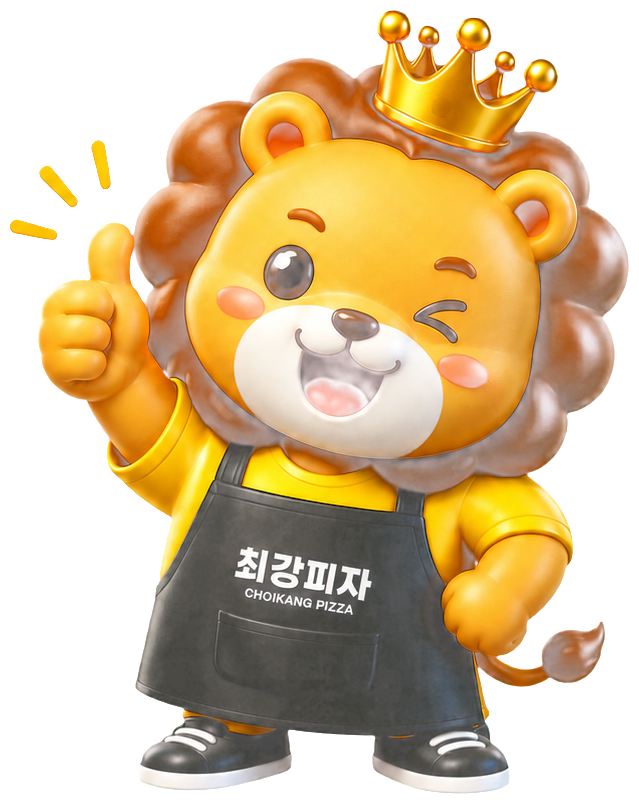
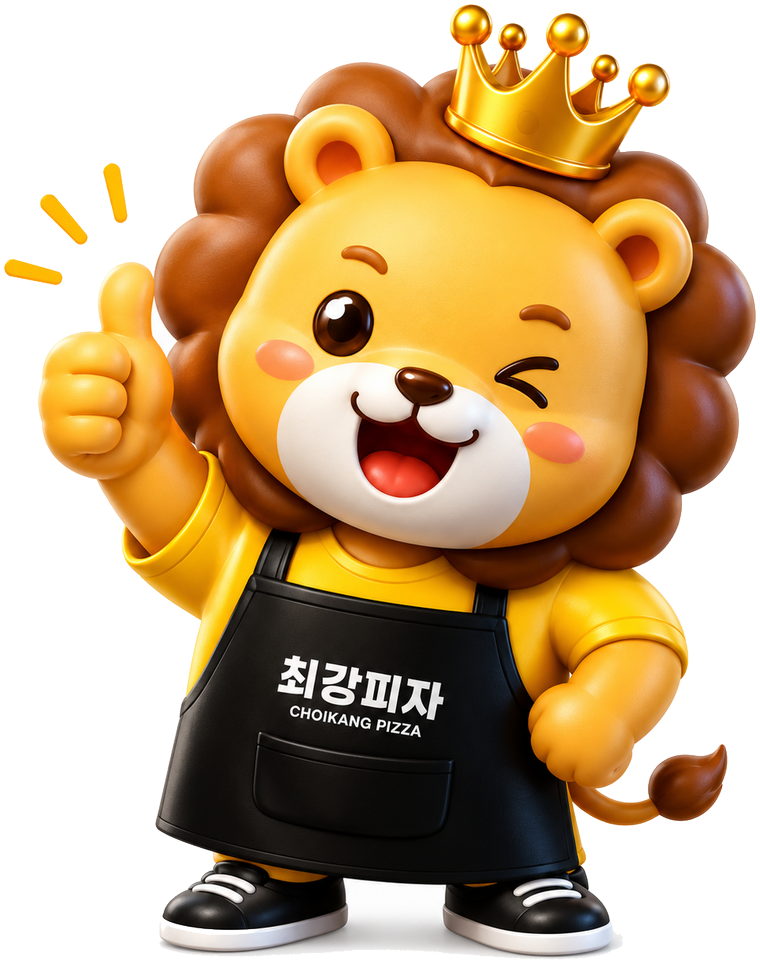
Label every section, fix the mascot cutout, and fit the dense two
- Every section now carries its label, not just the two that had one:
  PROFIT, SYSTEM, REAL KITCHEN, REVIEW and CONTACT join FRANCHISE and
  PHILOSOPHY. The pill gained a contrast tone for the saturated grounds,
  where navy-on-blue would have disappeared.

- The mascot was cut out with a magenta chroma key, and magenta is red plus
  blue — which the brown mane and black apron both carry. The key ate into
  the figure and left it part-transparent, so it composited as if under a
  white film. Replaced with a flood fill that travels inward from the frame
  edge: it can never reach an enclosed white, so the muzzle, the apron
  lettering and the shoe soles survive and the colour is now pixel-identical
  to the source art.

- 집중운영's cards were butted edge to edge at 373px wide. The comp sets them
  335px with a 45px gutter and the operator badge centred in that gutter,
  overlapping both neighbours. Measured off the sheet and matched, including
  the disc, which is a warmer cream (#FBEBC6) than the card, not the same
  tone. New --spacing-gutter token; a gap between sibling cards is its own
  rhythm step.

- 가맹 혜택's table stopped 150px short of the band beneath it, leaving the
  section with two right edges. Both run to the container now.

- 철학's blue band takes half the section.

- Height: at 1920, 1536 and 1440 every section fits one screen exactly. The
  two data-dense ones were 16-21% over at the comp's own 1672 and at 1366;
[…]

diff --git a/src/components/home/sections/profit-structure-section.tsx b/src/components/home/sections/profit-structure-section.tsx
@@ -10,6 +10,7 @@ import {
   WheatIcon,
 } from "@/components/home/icons";
 import { ProfitDonut } from "@/components/home/sections/profit-donut";
+import { EyebrowPill } from "@/components/home/ui/eyebrow-pill";
 import { profitStructure as data } from "@/lib/home-content";
 
 /** Geometry from 44-수정후-.png. Orange is this section's accent, not gold. */
@@ -32,11 +33,11 @@ function SummaryTable() {
   return (
     <div className="relative w-full pt-6 lg:pt-[1.4vw]">
       {/* The comp straddles this pill across the card's top edge. */}
-      <div className="absolute left-1/2 top-0 z-10 -translate-x-1/2 whitespace-nowrap rounded-full bg-navy-900 px-8 py-2.5 text-[1.05rem] font-black tracking-[-0.03em] text-white lg:px-card lg:py-[min(0.7vw,1.25vh)] lg:text-[clamp(1rem,1.35vw,1.42rem)]">
+      <div className="absolute left-1/2 top-0 z-10 -translate-x-1/2 whitespace-nowrap rounded-full bg-navy-900 px-8 py-2.5 text-[1.05rem] font-black tracking-[-0.03em] text-white lg:px-card lg:py-[min(0.5vw,0.88vh)] lg:text-[clamp(0.95rem,1.2vw,1.28rem)]">
         {data.table.title}
       </div>
 
-      <div className="rounded-card bg-white px-5 pb-5 pt-8 shadow-card lg:px-card lg:pb-[1.35vw] lg:pt-[2vw]">
+      <div className="rounded-card bg-white px-5 pb-5 pt-8 shadow-card lg:px-card lg:pb-[0.9vw] lg:pt-[1.5vw]">
         <div className="flex items-center justify-between border-b border-hairline pb-2.5 text-[0.85rem] font-bold text-navy-900/55 lg:text-[clamp(0.8rem,0.98vw,1.02rem)]">
           <span className="pl-1">{data.table.columns[0]}</span>
           <span>{data.table.columns[1]}</span>
@@ -47,10 +48,10 @@ function SummaryTable() {
           return (
             <div
               key={row.label}
-              className="flex items-center justify-between gap-4 border-b border-dotted border-hairline py-3 lg:py-[min(0.52vw,0.95vh)]"
+              className="flex items-center justify-between gap-4 border-b border-dotted border-hairline py-3 lg:py-[min(0.3vw,0.54vh)]"
             >
               <span className="flex min-w-0 items-center gap-3 lg:gap-[1vw]">
-                <span className="flex h-9 w-9 shrink-0 items-center justify-center rounded-full bg-[#EFF1F6] text-navy-900 lg:h-[min(2.4vw,4.3vh)] lg:w-[min(2.4vw,4.3vh)]">
+                <span className="flex h-9 w-9 shrink-0 items-center justify-center rounded-full bg-[#EFF1F6] text-navy-900 lg:h-[min(1.95vw,3.45vh)] lg:w-[min(1.95vw,3.45vh)]">
                   <Icon className="h-5 w-5 lg:h-[1.4vw] lg:w-[1.4vw]" />
                 </span>
                 <span className="min-w-0 text-[0.98rem] font-black tracking-[-0.03em] text-navy-900 lg:text-[clamp(0.9rem,1.14vw,1.2rem)]">
@@ -103,15 +104,15 @@ export function ProfitStructureSection() {
       className="app-screen-snap-target section-screen section-lead relative bg-cream-ground"
     >
       <div className="mx-auto w-full max-w-[93.25rem] px-5 md:px-8 lg:w-[min(93.25rem,100%-5.4rem)] lg:max-w-none lg:px-0">
-        {/* Gold rules flanking the top of the section, as in the comp. */}
-        <div aria-hidden="true" className="hidden items-center gap-6 lg:flex">
-          <span className="h-0.5 w-[22%] bg-gold-600" />
-          <span className="flex-1" />
-          <span className="h-0.5 w-[22%] bg-gold-600" />
+        {/* The comp's gold rules run either side of the section label. */}
+        <div className="flex items-center gap-6">
+          <span aria-hidden="true" className="hidden h-0.5 flex-1 bg-gold-600 lg:block" />
+          <EyebrowPill label={data.pill} />
+          <span aria-hidden="true" className="hidden h-0.5 flex-1 bg-gold-600 lg:block" />
         </div>
 
         <div className="motion-reveal mt-block text-center">
-          <h2 className="text-[1.85rem] font-black leading-[1.2] tracking-[-0.05em] text-navy-900 lg:text-[clamp(1.9rem,min(3.75vw,6.7vh),3.95rem)]">
+          <h2 className="text-[1.85rem] font-black leading-[1.2] tracking-[-0.05em] text-navy-900 lg:text-[clamp(1.8rem,min(3.2vw,5.7vh),3.4rem)]">
             {data.headlineLead}
             <span className="text-orange-500">{data.headlineAccent}</span>
             {data.headlineTail}
@@ -126,12 +127,12 @@ export function ProfitStructureSection() {
         <div className="mt-block grid grid-cols-1 items-center gap-10 lg:grid-cols-[minmax(0,1fr)_minmax(0,1.02fr)] lg:gap-[2.4vw]">
           <div className="flex flex-col items-center gap-6 lg:flex-row lg:gap-[1.6vw]">
             <div className="shrink-0 text-center lg:w-[9.5vw]">
-              <ChartIcon className="mx-auto h-12 w-12 text-orange-500 lg:h-[min(2.8vw,5vh)] lg:w-[min(2.8vw,5vh)]" />
+              <ChartIcon className="mx-auto h-12 w-12 text-orange-500 lg:h-[min(2.3vw,4.1vh)] lg:w-[min(2.3vw,4.1vh)]" />
               <span aria-hidden="true" className="mx-auto mt-3 block h-0.5 w-16 bg-gold-600 lg:w-full" />
               <p className="mt-3 text-[0.95rem] font-black tracking-[-0.03em] text-navy-900 lg:text-[clamp(0.88rem,1.14vw,1.2rem)]">
                 {data.headlineStat.label}
               </p>
-              <p className="mt-1 whitespace-nowrap text-[2rem] font-black leading-none tracking-[-0.05em] text-orange-500 lg:text-[clamp(1.8rem,min(2.6vw,4.6vh),2.9rem)]">
+              <p className="mt-1 whitespace-nowrap text-[2rem] font-black leading-none tracking-[-0.05em] text-orange-500 lg:text-[clamp(1.6rem,min(2.2vw,3.9vh),2.5rem)]">
                 {data.headlineStat.value}
                 <span className="text-[0.55em]">%</span>
               </p>
@@ -141,7 +142,7 @@ export function ProfitStructureSection() {
               </p>
             </div>
 
-            <div className="w-full max-w-[26rem] lg:max-w-[min(21.5vw,37vh)]">
+            <div className="w-full max-w-[26rem] lg:max-w-[min(18.5vw,32vh)]">
               <ProfitDonut />
             </div>
           </div>
@@ -163,7 +164,7 @@ export function ProfitStructureSection() {
                   index > 0 ? "sm:border-l sm:border-hairline sm:pl-4 lg:pl-[2vw]" : ""
                 }`}
               >
-                <span className="flex h-14 w-14 shrink-0 items-center justify-center rounded-full bg-navy-900 text-yellow-500 lg:h-[min(3.4vw,6vh)] lg:w-[min(3.4vw,6vh)]">
+                <span className="flex h-14 w-14 shrink-0 items-center justify-center rounded-full bg-navy-900 text-yellow-500 lg:h-[min(2.7vw,4.8vh)] lg:w-[min(2.7vw,4.8vh)]">
                   <Icon className="h-8 w-8 lg:h-[2.4vw] lg:w-[2.4vw]" />
                 </span>
                 <span className="min-w-0">

diff --git a/src/components/home/sections/franchise-benefit-section.tsx b/src/components/home/sections/franchise-benefit-section.tsx
@@ -60,12 +60,12 @@ function RedUnderline() {
 
 function BenefitTable() {
   return (
-    <div className="mt-block overflow-hidden rounded-card border border-hairline bg-white shadow-card lg:mr-[9.2vw]">
+    <div className="mt-block overflow-hidden rounded-card border border-hairline bg-white shadow-card">
       <div className="grid grid-cols-[1fr] bg-navy-900 text-white lg:grid-cols-[22%_45%_33%]">
         {data.columns.map((column, index) => (
           <div
             key={column}
-            className={`hidden py-3.5 text-center text-[1rem] font-black tracking-[-0.02em] lg:block lg:py-[min(0.7vw,1.25vh)] lg:text-[clamp(0.95rem,1.25vw,1.32rem)] ${
+            className={`hidden py-3.5 text-center text-[1rem] font-black tracking-[-0.02em] lg:block lg:py-[min(0.52vw,0.92vh)] lg:text-[clamp(0.9rem,1.14vw,1.2rem)] ${
               index === 0 ? "lg:block" : ""
             }`}
           >
@@ -80,12 +80,12 @@ function BenefitTable() {
         return (
           <div
             key={row.label}
-            className={`grid grid-cols-1 items-center gap-y-2 px-5 py-5 lg:grid-cols-[22%_45%_33%] lg:gap-0 lg:px-0 lg:py-[min(0.85vw,1.5vh)] ${
+            className={`grid grid-cols-1 items-center gap-y-2 px-5 py-5 lg:grid-cols-[22%_45%_33%] lg:gap-0 lg:px-0 lg:py-[min(0.58vw,1.03vh)] ${
               index > 0 ? "border-t border-hairline" : ""
             }`}
           >
             <div className="flex items-center gap-3 lg:justify-start lg:pl-[2.2vw]">
-              <span className="flex h-9 w-9 shrink-0 items-center justify-center rounded-full bg-navy-900 text-white lg:h-[min(2.6vw,4.6vh)] lg:w-[min(2.6vw,4.6vh)]">
+              <span className="flex h-9 w-9 shrink-0 items-center justify-center rounded-full bg-navy-900 text-white lg:h-[min(2.15vw,3.8vh)] lg:w-[min(2.15vw,3.8vh)]">
                 <Icon className="h-5 w-5 lg:h-[1.5vw] lg:w-[1.5vw]" />
               </span>
               <span className="text-[1.05rem] font-black tracking-[-0.03em] text-navy-900 lg:text-[clamp(1rem,1.42vw,1.5rem)]">
@@ -137,7 +137,7 @@ export function FranchiseBenefitSection() {
             {/* Flex, not inline-block: shrink-to-fit sizes these against the
                 available inline width, which collapsed the marked phrase to a
                 single-character column. Flex items size to their content. */}
-            <span className="flex items-baseline justify-center gap-x-[0.22em] whitespace-nowrap text-[2.2rem] lg:text-[clamp(2.4rem,min(5.68vw,10.1vh),5.95rem)]">
+            <span className="flex items-baseline justify-center gap-x-[0.22em] whitespace-nowrap text-[2.2rem] lg:text-[clamp(2.2rem,min(4.9vw,8.7vh),5.2rem)]">
               <span className="relative">
                 {data.headlineLead}
                 <RedUnderline />
@@ -148,7 +148,7 @@ export function FranchiseBenefitSection() {
                 <SparkIcon className="absolute -right-[0.42em] -top-[0.22em] h-[0.3em] w-[0.3em] text-yellow-500" />
               </span>
             </span>
-            <span className="mt-1 block text-[1.75rem] lg:mt-[0.3vw] lg:text-[clamp(1.8rem,min(4vw,7.1vh),4.3rem)]">{data.headlineSecond}</span>
+            <span className="mt-1 block text-[1.75rem] lg:mt-[0.3vw] lg:text-[clamp(1.7rem,min(3.5vw,6.2vh),3.8rem)]">{data.headlineSecond}</span>
           </h2>
           <p className="mx-auto mt-group max-w-[46rem] text-[0.95rem] text-navy-900/65 lg:max-w-none lg:text-[clamp(0.88rem,1.08vw,1.14rem)]">
             {data.subhead}
@@ -169,7 +169,7 @@ export function FranchiseBenefitSection() {
             unoptimized
             className="pointer-events-none -mb-2 hidden h-auto w-[min(6.8vw,12vh)] shrink-0 select-none lg:block"
           />
-          <div className="w-full rounded-band bg-navy-900 px-6 py-6 text-center text-white lg:ml-[1.2vw] lg:py-card lg:pl-[2vw] lg:pr-[2.4vw] lg:text-left">
+          <div className="w-full rounded-band bg-navy-900 px-6 py-6 text-center text-white lg:ml-[1.2vw] lg:py-[min(1.05vw,1.85vh)] lg:pl-[2vw] lg:pr-[2.4vw] lg:text-left">
             <div className="flex items-center justify-center gap-3 lg:justify-start lg:gap-[1.4vw]">
               <span className="hidden h-[min(3.4vw,6vh)] w-[min(3.4vw,6vh)] shrink-0 items-center justify-center rounded-full bg-white lg:flex">
                 <Image
@@ -189,7 +189,7 @@ export function FranchiseBenefitSection() {
                   <SparkIcon className="h-4 w-4 shrink-0" />
                   <span aria-hidden="true" className="hidden h-px flex-1 bg-gold-400/45 lg:block" />
                 </p>
-                <p className="mt-2 text-[1.35rem] font-black leading-tight tracking-[-0.04em] lg:mt-[0.4vw] lg:text-[clamp(1.5rem,min(2.8vw,5vh),2.95rem)]">
+                <p className="mt-2 text-[1.35rem] font-black leading-tight tracking-[-0.04em] lg:mt-[0.4vw] lg:text-[clamp(1.4rem,min(2.4vw,4.25vh),2.5rem)]">
                   {data.banner.parts.map((part, index) => (
                     <span
                       key={index}

diff --git a/src/components/home/sections/focus-system-section.tsx b/src/components/home/sections/focus-system-section.tsx
@@ -1,5 +1,6 @@
 import Image from "next/image";
 import { GrowthArt, TargetArt } from "@/components/home/icons";
+import { EyebrowPill } from "@/components/home/ui/eyebrow-pill";
 import { focusSystem as data } from "@/lib/home-content";
 
 /** Geometry from 77-중간 수정후.png: yellow ground, four cream cards, navy operators. */
@@ -34,7 +35,7 @@ function Operator({ symbol }: { symbol: string }) {
   return (
     <span
       aria-hidden="true"
-      className="z-10 flex h-11 w-11 shrink-0 items-center justify-center rounded-full bg-navy-900 text-[1.5rem] font-black leading-none text-yellow-500 shadow-raise lg:h-[3.6vw] lg:w-[3.6vw] lg:text-[clamp(1.4rem,2vw,2.1rem)]"
+      className="z-10 flex h-11 w-11 shrink-0 items-center justify-center rounded-full bg-navy-900 text-[1.5rem] font-black leading-none text-yellow-500 shadow-raise lg:h-[min(4.13vw,7.3vh)] lg:w-[min(4.13vw,7.3vh)] lg:text-[clamp(1.4rem,2vw,2.1rem)]"
     >
       {symbol}
     </span>
@@ -54,7 +55,11 @@ export function FocusSystemSection() {
       />
 
       <div className="relative mx-auto w-full max-w-[93.25rem] px-5 md:px-8 lg:w-[min(93.25rem,100%-5.4rem)] lg:max-w-none lg:px-0">
-        <div className="motion-reveal text-center">
+        <div className="flex justify-center">
+          <EyebrowPill label={data.pill} />
+        </div>
+
+        <div className="motion-reveal mt-block text-center">
           <h2 className="text-[1.95rem] font-black leading-[1.2] tracking-[-0.05em] text-navy-900 lg:text-[clamp(2.4rem,4.6vw,4.85rem)]">
             {data.headlineLead}
             <span className="text-red-500">{data.headlineAccent}</span>
@@ -75,7 +80,7 @@ export function FocusSystemSection() {
                 <span aria-hidden="true" className="mt-group block h-0.5 w-14 bg-gold-600" />
 
                 {/* Every card gets the comp's cream disc, vector art included. */}
-                <span className="mt-block flex aspect-square w-[10.5rem] items-center justify-center overflow-hidden rounded-full bg-[#F3EAD4] lg:w-[min(13.4vw,23vh)]">
+                <span className="mt-block flex aspect-square w-[10.5rem] items-center justify-center overflow-hidden rounded-full bg-disc lg:w-[min(13.4vw,23vh)]">
                   <CardArt art={card.art} />
                 </span>
 
@@ -92,7 +97,7 @@ export function FocusSystemSection() {
               </article>
 
               {card.connector ? (
-                <span className="my-3 flex justify-center lg:my-0 lg:-mx-[1.8vw] lg:mt-[min(12.4vw,21vh)] lg:self-start">
+                <span className="my-3 flex justify-center lg:my-0 lg:mt-[min(12.4vw,21vh)] lg:w-gutter lg:shrink-0 lg:self-start">
                   <Operator symbol={card.connector} />
                 </span>
               ) : null}

diff --git a/src/lib/home-content.ts b/src/lib/home-content.ts
@@ -157,6 +157,7 @@ export const philosophy = {
 
 /* ── S4 · 수익 구조 (44-수정후-.png) ─────────────────────────── */
 export const profitStructure = {
+  pill: "PROFIT",
   headlineLead: "매출보다 중요한 건, 실제로 남는 ",
   headlineAccent: "수익",
   headlineTail: "입니다.",
@@ -222,6 +223,7 @@ export const profitStructure = {
 
 /* ── S5 · 집중운영 시스템 (77-중간 수정후.png) ───────────────── */
 export const focusSystem = {
+  pill: "SYSTEM",
   headlineLead: "최강피자 ",
   headlineAccent: "집중운영",
   headlineTail: " 시스템",
@@ -271,6 +273,7 @@ export const focusSystem = {
 
 /* ── S6 · 진짜 주방 (99- 하단 수정 부분.png) ─────────────────── */
 export const realKitchen = {
+  pill: "REAL KITCHEN",
   headline: [
     { text: "최강피자의", tone: "white" },
     { text: "진짜 주방을", tone: "gold" },
@@ -321,6 +324,7 @@ export const realKitchen = {
 
 /* ── S7 · 리뷰 증명 (88 — 구조 유지, 남색만 밝은 블루로) ────── */
 export const reviewProof = {
+  pill: "REVIEW",
   year: "2026년",
   lead: "고객님의 성원에 오픈 3개월",
   headlineLead: "매출",
@@ -336,6 +340,7 @@ export const reviewProof = {
 
 /* ── S8 · 가맹 문의 + 푸터 (10 — 그대로) ─────────────────────── */
 export const contact = {
+  pill: "CONTACT",
   headlineLead: "최강피자 ",
   headlineAccent: "가맹 문의",
   description: "브랜드 상담부터 운영 안내까지 빠르게 연결해드립니다.",

diff --git a/src/app/globals.css b/src/app/globals.css
@@ -37,6 +37,7 @@
   --color-cream-ground: #faf6f2;
   --color-rule: #ebe9e8;
   --color-mist: #eef1f7;
+  --color-disc: #fbebc6;
 
   /* ---------------------------------------------------------------
      Vertical rhythm. Every comp sheet is one 1672×941 screen, so the
@@ -47,7 +48,7 @@
      Use these — never a fresh `mt-[1.7vw]`.
      --------------------------------------------------------------- */
   --spacing-section: clamp(1.15rem, min(2.05vw, 3.6vh), 2.4rem);
-  --spacing-block: clamp(0.85rem, min(1.55vw, 2.75vh), 1.7rem);
+  --spacing-block: clamp(0.7rem, min(1.25vw, 2.2vh), 1.4rem);
   --spacing-group: clamp(0.65rem, min(1.25vw, 2.2vh), 1.35rem);
   --spacing-tight: clamp(0.4rem, min(0.7vw, 1.25vh), 0.75rem);
 
@@ -55,7 +56,10 @@
      fixed header, then adds one breathing gap. Sections anchor to this
      instead of centring, so a heading lands at the same height on every
      screen as you page down. */
-  --spacing-lead: calc(var(--header-offset) + clamp(0.5rem, min(1.5vw, 2.6vh), 1.6rem));
+  --spacing-lead: calc(var(--header-offset) + clamp(0.25rem, min(0.8vw, 1.4vh), 0.95rem));
+
+  /* Gutter between sibling cards in a row — 45px on the comps' 1672 frame. */
+  --spacing-gutter: clamp(0.75rem, min(2.7vw, 4.8vh), 3rem);
 
   /* Interior padding for cards, panels and pills. */
   --spacing-card: clamp(1rem, min(1.55vw, 2.75vh), 1.8rem);

diff --git a/src/components/home/sections/review-proof-section.tsx b/src/components/home/sections/review-proof-section.tsx
@@ -1,5 +1,6 @@
 import Image from "next/image";
 import type { CSSProperties } from "react";
+import { EyebrowPill } from "@/components/home/ui/eyebrow-pill";
 import { reviewProof as data } from "@/lib/home-content";
 
 /**
@@ -76,7 +77,8 @@ export function ReviewProofSection() {
       {/* The panel sits over the moving rows, so it needs its own ground. */}
       <div className="pointer-events-none absolute inset-0 flex items-center justify-center px-5">
         <div className="motion-reveal pointer-events-auto w-full max-w-[28rem] rounded-card bg-blue-band px-8 py-block text-center text-white shadow-lift lg:max-w-[31vw] lg:px-card">
-          <p className="text-[0.85rem] font-black tracking-[0.14em] text-yellow-500 lg:text-[clamp(0.8rem,1vw,1.05rem)]">
+          <EyebrowPill label={data.pill} tone="contrast" />
+          <p className="mt-group text-[0.85rem] font-black tracking-[0.14em] text-yellow-500 lg:text-[clamp(0.8rem,1vw,1.05rem)]">
             {data.year}
           </p>
           <p className="mt-group text-[1.1rem] font-black tracking-[-0.03em] lg:text-[clamp(1.05rem,1.42vw,1.5rem)]">

diff --git a/src/components/home/sections/real-kitchen-section.tsx b/src/components/home/sections/real-kitchen-section.tsx
@@ -2,6 +2,7 @@
 
 import { useRef, useState } from "react";
 import { DiamondIcon, PlayIcon, ShieldIcon, SparkIcon } from "@/components/home/icons";
+import { EyebrowPill } from "@/components/home/ui/eyebrow-pill";
 import { KakaoBadge } from "@/components/home/ui/kakao-badge";
 import { realKitchen as data } from "@/lib/home-content";
 
@@ -100,7 +101,8 @@ export function RealKitchenSection() {
       <div className="mx-auto w-full max-w-[93.25rem] px-5 md:px-8 lg:w-[min(93.25rem,100%-5.4rem)] lg:max-w-none lg:px-0">
         <div className="grid grid-cols-1 items-center gap-10 lg:grid-cols-[minmax(0,0.85fr)_minmax(0,1.15fr)] lg:gap-[3vw]">
           <div className="motion-reveal">
-            <h2 className="text-[2.4rem] font-black leading-[1.14] tracking-[-0.05em] lg:text-[clamp(2.8rem,5.5vw,5.8rem)]">
+            <EyebrowPill label={data.pill} tone="contrast" />
+            <h2 className="mt-block text-[2.4rem] font-black leading-[1.14] tracking-[-0.05em] lg:text-[clamp(2.8rem,5.5vw,5.8rem)]">
               {data.headline.map((line) => (
                 <span
                   key={line.text}

diff --git a/src/components/home/ui/eyebrow-pill.tsx b/src/components/home/ui/eyebrow-pill.tsx
@@ -2,8 +2,9 @@ import { SparkIcon } from "@/components/home/icons";
 
 type EyebrowPillProps = {
   label: string;
-  /** `solid` = filled navy pill (22); `outline` = blue pill with gold rule (33). */
-  tone?: "solid" | "outline";
+  /** `solid` = filled navy (22); `outline` = ringed (33); `contrast` = for
+   *  placement on a saturated ground, where navy would disappear. */
+  tone?: "solid" | "outline" | "contrast";
   sparks?: boolean;
 };
 
@@ -17,7 +18,9 @@ export function EyebrowPill({ label, tone = "solid", sparks = false }: EyebrowPi
       className={`inline-flex items-center gap-2 rounded-full px-6 py-2 text-[0.86rem] font-black tracking-[0.14em] lg:text-[clamp(0.8rem,1.02vw,1.05rem)] ${
         tone === "solid"
           ? "bg-navy-900 text-yellow-500"
-          : "border-2 border-gold-600 bg-blue-band text-yellow-500"
+          : tone === "contrast"
+            ? "bg-white/15 text-yellow-500 ring-1 ring-white/30"
+            : "border-2 border-gold-600 bg-blue-band text-yellow-500"
       }`}
     >
       {sparks ? <SparkIcon className="h-3.5 w-3.5" /> : null}

diff --git a/src/components/home/sections/contact-footer-section.tsx b/src/components/home/sections/contact-footer-section.tsx
@@ -1,4 +1,5 @@
 import Image from "next/image";
+import { EyebrowPill } from "@/components/home/ui/eyebrow-pill";
 import { contact as data } from "@/lib/home-content";
 
 /** 10 ships unchanged; only the tokens are swapped for the new palette. */
@@ -50,7 +51,8 @@ export function ContactFooterSection() {
 
         <div className="relative mx-auto w-full max-w-[93.25rem] px-5 py-section md:px-8 lg:w-[min(93.25rem,100%-5.4rem)] lg:max-w-none lg:px-0">
           <div className="motion-reveal text-center">
-            <h2 className="text-[1.95rem] font-black leading-[1.1] tracking-[-0.05em] lg:text-[clamp(2.2rem,3.6vw,3.8rem)]">
+            <EyebrowPill label={data.pill} tone="contrast" />
+            <h2 className="mt-block text-[1.95rem] font-black leading-[1.1] tracking-[-0.05em] lg:text-[clamp(2.2rem,3.6vw,3.8rem)]">
               {data.headlineLead}
               <span className="text-yellow-500">{data.headlineAccent}</span>
             </h2>

diff --git a/src/components/home/sections/philosophy-section.tsx b/src/components/home/sections/philosophy-section.tsx
@@ -12,7 +12,7 @@ export function PhilosophySection() {
       {/* Blue band the card crosses into. */}
       <div
         aria-hidden="true"
-        className="absolute inset-x-0 bottom-0 h-[22%] bg-blue-band lg:h-[28%]"
+        className="absolute inset-x-0 bottom-0 h-[35%] bg-blue-band lg:h-1/2"
       />
 
       <div className="relative mx-auto w-full max-w-[93.25rem] px-5 md:px-8 lg:w-[min(93.25rem,100%-5.4rem)] lg:max-w-none lg:px-0">
